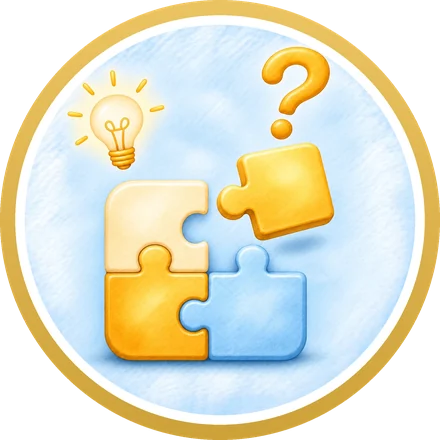
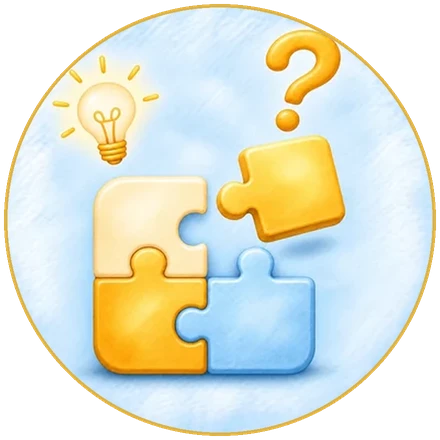
Feiner, einheitlicher Goldrand bei Knobelkiste und Englisch
Claude-Session: https://claude.ai/code/session_016s2NAEmtV5RttX7vfFu7FQ

diff --git a/index.html b/index.html
@@ -133,13 +133,13 @@
           <p>Finde das geheime Wort mit 5 Buchstaben in 6 Versuchen. Jeden Tag gibt es ein neues Wort.</p>
         </a>
         <a class="karte blau klickbar" href="knobelkiste/" aria-label="Knobelkiste öffnen">
-          <span class="bild-rund mit-bild" aria-hidden="true"><img src="knobelkiste-bild.webp" alt="" width="220" height="220" loading="lazy"></span>
+          <span class="bild-rund mit-bild" aria-hidden="true"><img src="knobelkiste-bild.webp?v=2" alt="" width="220" height="220" loading="lazy"></span>
           <h3>Knobelkiste</h3>
           <p>Zehn Spiele für Mathematik, Deutsch und Knobeln, je mit fünf Stufen.</p>
         </a>
 
         <a class="karte rosa klickbar" href="englisch/" aria-label="Englisch öffnen">
-          <span class="bild-rund mit-bild" aria-hidden="true"><img src="englisch-bild.webp" alt="" width="220" height="220" loading="lazy"></span>
+          <span class="bild-rund mit-bild" aria-hidden="true"><img src="englisch-bild.webp?v=2" alt="" width="220" height="220" loading="lazy"></span>
           <h3>Englisch</h3>
           <p>Kleiderschrank und Owl Town: Englisch hören, sprechen und schreiben.</p>
         </a>

diff --git a/knobelkiste/index.html b/knobelkiste/index.html
@@ -42,7 +42,7 @@
 <main class="kk">
   <div class="kk-oben"><a class="lk-back" href="../#lernspiele" title="Zurück zur Eulenkiste" aria-label="Zurück zur Eulenkiste"><span aria-hidden="true">←</span><img src="../eulenkiste.webp" alt="" width="36" height="36"></a></div>
   <div class="kk-kopf">
-    <img class="kk-bild" src="../knobelkiste-bild.webp" alt="" width="118" height="118">
+    <img class="kk-bild" src="../knobelkiste-bild.webp?v=2" alt="" width="118" height="118">
     <h1>Knobel<em>kiste</em></h1>
     <p>Spiele zum Knobeln und Üben. Jedes hat fünf Stufen, von leicht bis Profi.</p>
   </div>

diff --git a/englisch/index.html b/englisch/index.html
@@ -42,7 +42,7 @@
 <main class="kk">
   <div class="kk-oben"><a class="lk-back" href="../#lernspiele" title="Zurück zur Eulenkiste" aria-label="Zurück zur Eulenkiste"><span aria-hidden="true">←</span><img src="../eulenkiste.webp" alt="" width="36" height="36"></a></div>
   <div class="kk-kopf">
-    <img class="kk-bild" src="../englisch-bild.webp" alt="" width="118" height="118">
+    <img class="kk-bild" src="../englisch-bild.webp?v=2" alt="" width="118" height="118">
     <h1>Eng<em>lisch</em></h1>
     <p>Englisch spielend üben: hören, nachsprechen und schreiben.</p>
   </div>
